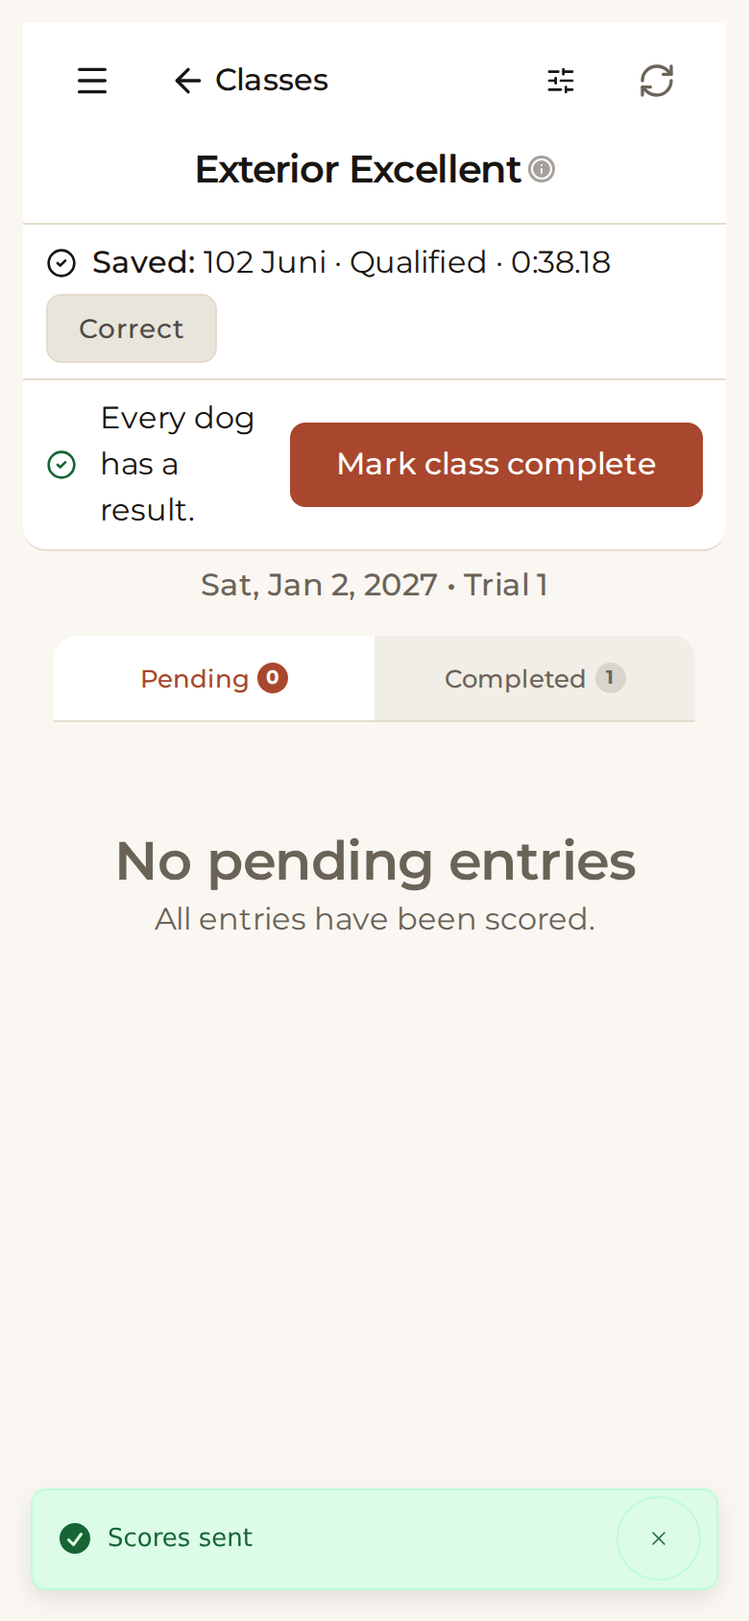
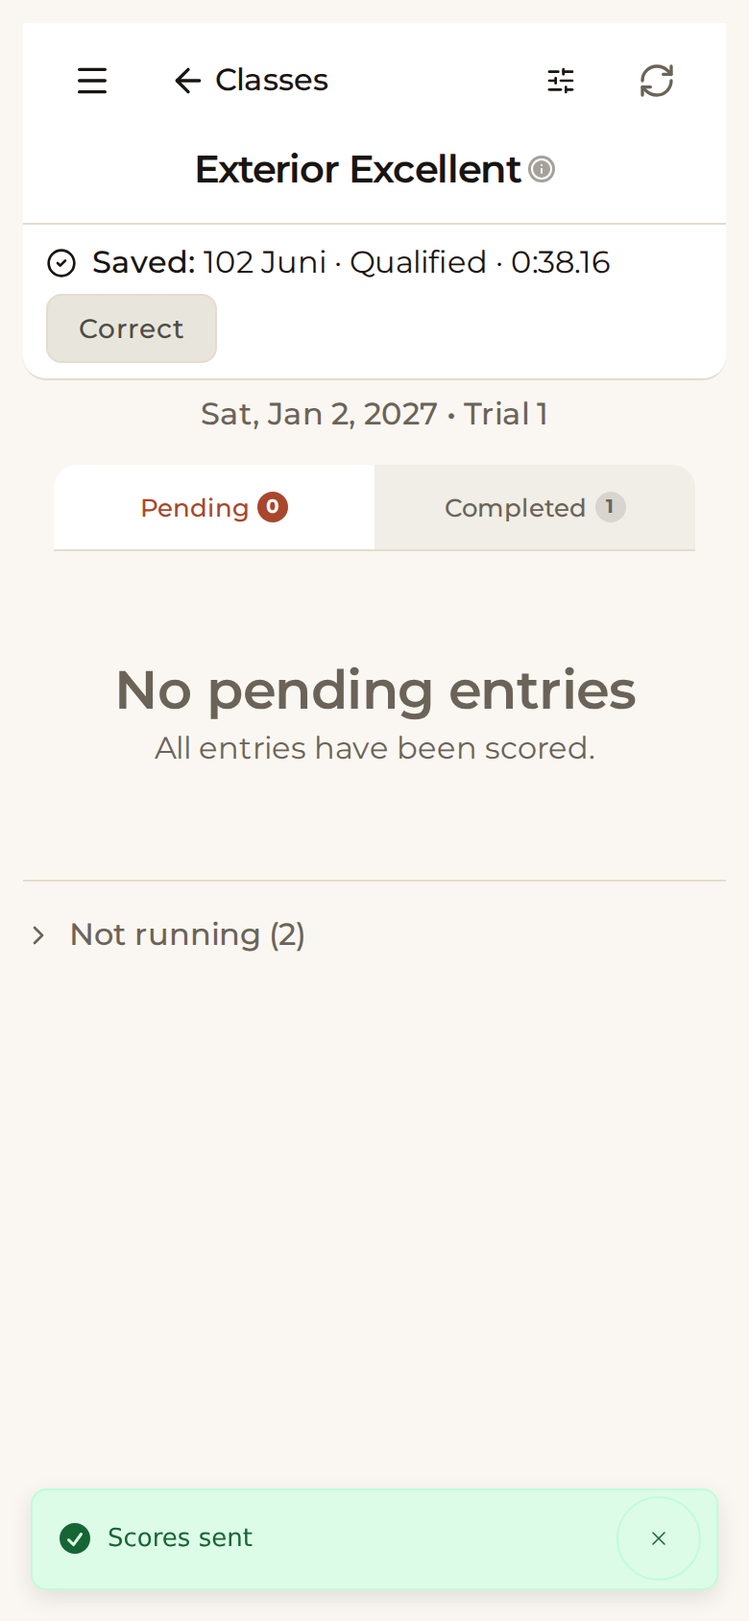
docs(landing): the capture section describes the confined e2e capture; images from the confined run (MYK9-2181)
- Images from capture run 44347351978 (head cfb977a52): the first taken with
  the outbound network closed and the score really sent. Regions are unchanged.
- Plan, evidence and prototype docs describe the capture as it now is.
- The resting-frame test pins the last line's ring to the Scores sent message.

diff --git a/apps/myk9show/src/components/landing/lifecycle/__tests__/ringScene.test.tsx b/apps/myk9show/src/components/landing/lifecycle/__tests__/ringScene.test.tsx
@@ -60,6 +60,10 @@ describe('the ring scene', () => {
       ['The score is read back before it saves', 'confirm'],
       ['The signal returns', 'sent'],
     ]);
+    // Two frames show `sent`; the one the last line rests on rings the Scores sent message.
+    expect(frames[lastFrameOfLine(frames, 4)]!.phone!.ring).toEqual(
+      regions.shots.sent.regions.toast
+    );
   });
 
   it('rings the whole class card on the first line', () => {

diff --git a/docs/plan-landing-animated-timeline.md b/docs/plan-landing-animated-timeline.md
@@ -132,11 +132,11 @@ Changed from the 2026-11-12 wording (the judge's flow changed on 2026-11-14, MYK
 Facts the copy must respect:
 
 - Scoring is not gated on the date. The exhibitor's "Show day is here" banner is, and by the server's clock, so it cannot be staged by changing a browser clock.
-- While the tablet is offline the exhibitor's phone does not change.
+- While the judge's device is offline the exhibitor's phone does not change.
 - There is no auto-advance after a score. The judge chooses a dog from the list.
-- The reconnect ("Scores sent") is captured without sending a score: the capture script answers the upload inside the browser and gives the confirming read the same fields, so the phone shows what it shows when the server has accepted a score. The request never leaves the machine.
+- The reconnect ("Scores sent") is captured without sending a score: the capture's database is the job's own, so the score is really sent when the signal returns and the phone shows what a judge sees.
 - **The scene is the judge's phone, captured 390 wide (owner, 2026-11-18; MYK9-2181).** Lines 2, 4 and 5 and the show-day step's own sentence were reworded for it (the owner has not yet read the new wording): line 4 now ends at the read-back and line 5 opens on the saved list, so each line's text is what its frames show; the step says judges score "on a phone or tablet"; on a phone the header shows an amber no-signal icon and a message says "You're offline. Changes are saved on this device…", where a wider screen prints "Offline · scores saved on this device" in the header; and line 5 says "the screen", not "the tablet".
-- **The scene is Juni (102) in Exterior Excellent**, not Cooper in Container Novice A. On the seed as an isolated stack holds it, Container Novice A is complete with its results released, and Exterior Excellent is the judge's unscored class with a single timer. Only the demo seed's own armbands (100 to 105) are in the captures: the load fixture's dogs (2001 to 2063) are left out of every list the phone receives, so the class reads 0 of 1 scored.
+- **The scene is Juni (102) in Exterior Excellent**, not Cooper in Container Novice A. On the seed as an isolated stack holds it, Container Novice A is complete with its results released, and Exterior Excellent is the judge's unscored class with a single timer. The capture's database is seeded without the load fixture, so the class holds the demo seed's one dog and reads 0 of 1 scored.
 - Per-judge access codes now scope each code to that judge's classes (MYK9-1950). Sign-in is not a line in this scene.
 
 ### The "Show day, at the desk" scene (re-verified in code 2026-11-15, not captured)
@@ -179,16 +179,14 @@ Facts the copy must respect:
 
 ## Capturing the screens
 
-- **A capture runs against an isolated Supabase stack only** (owner, 2026-11-18; MYK9-2181). There is no opt-in for a hosted project: a request to one is never sent and stops the run, so no account is signed in and no image is written after it. The ring captures of 2026-11-17 were taken against the production project before this rule existed (about a dozen judge sign-ins, no writes, and the fixture judge shown as scoring through show presence); that cannot happen from the committed scripts.
-- **Where it runs.** The isolated stack (`pnpm qa:isolated-e2e:prepare`) needs Docker, or the Supabase CLI's native runtime on a Mac. The owner's Windows PC has neither (the CLI answers "Native artifacts are unsupported on win32/x64"), so captures are taken by the **Landing capture** workflow (`.github/workflows/landing-capture.yml`): it builds the stack, serves the built app against it, runs the capture and uploads the images and regions as the `landing-capture-ring` artifact, laid out to unpack over a checkout. It runs on a pull request that changes the capture scripts, and on demand (`gh workflow run landing-capture.yml`). Commit the artifact's files; nothing is committed by the workflow.
-- **The scripts** are in `apps/myk9show/scripts/landing-capture/`: `guardRules.ts` (every safety rule, as pure functions), `guard.ts` (wires the rules to the browser), `lib.ts` (launch, sign-in, measuring), `selfcheck.ts` (proves the guard in a real browser, with a control) and one script per scene (`ring.ts`). On a machine that can run the stack: `pnpm --filter @myk9/show capture:landing:selfcheck`, then `capture:landing:ring` with `CAPTURE_BASE_URL` pointing at an app served against the stack. Each scene writes its images to `public/landing/scenes/<scene>/` and its measured regions to `src/components/landing/lifecycle/scenes/<scene>Regions.json`.
-- **The rules, each with known-answer tests** (`src/test/scripts/landingCaptureGuard.test.ts`, `landingCaptureGuardWiring.test.ts`):
-  - Only an app served from this machine is driven, and it is exempt from the guard by its exact origin, so a stack on another port of the same host is still guarded.
-  - Of the requests to the local stack only reads leave the browser. RPCs are POSTs and some write, so only RPCs with a read name pass; opening a ringside scoresheet online calls `ringside_update_entry` and moves the dog to "In ring", so a scoring walk is cut off from the backend before the scoresheet opens.
-  - Any other host is refused, except a GET for the web fonts. The browser itself is started so that it resolves no name but this machine and the font hosts.
-  - **No WebSocket is connected to any server**, realtime and hot reload included.
-  - A state the seed does not hold is staged by changing what the browser is shown (a patched response, or a staged answer to a refused write), never by writing it. Use a fresh browser context per state, because the app caches rows locally.
-  - Each scene lists the armbands it shows. Rows off the list are left out of every list the app receives, and an image is written only after every armband on screen is on the list.
+- **A capture is safe by where it runs, not by sorting its requests** (owner, 2026-11-18; MYK9-2181). A first version let the app talk to a backend through a guard that told reads from writes, one RPC from another and one armband from another; two review rounds kept finding gaps in it, so it was replaced. The ring captures of 2026-11-17 were taken against the production project by hand-run scripts (about a dozen judge sign-ins, no writes, and the fixture judge shown as scoring through show presence); the committed capture cannot do that.
+- **The database is the job's own.** The **Landing capture** workflow (`.github/workflows/landing-capture.yml`) builds a disposable Supabase stack, seeds it from the repository's demo seed only (`MYK9_E2E_LOAD_FIXTURE=false` leaves the 63-dog load fixture out), and destroys it with the job. Every row is a fixture, so nothing is filtered, and the walk scores for real: the reconnect really sends the score.
+- **Nothing the capture runs can leave the runner.** After install, build and the font download, the job closes the outbound network for the capture's processes (the browser, the preview server and the spec run in a group that may talk to this machine only). A control proves the probe connects before the rule and is refused under it, and the spec proves the refusal again before it signs in.
+- **The capture is one spec in the isolated e2e suite**: `apps/myk9show/src/test/e2e/capture/landingRingCapture.spec.ts`, run by `playwright.ci.config.ts` when `PLAYWRIGHT_LANDING_CAPTURE=true`. It uses the suite's own sign-in, isolated-target check and production-bundle check, and refuses to start unless the target is isolated and the network is closed. Beside it: `egressProbe.ts` (the network proof), `downloadFonts.ts` (the app's web fonts, fetched before the network is closed and served to the page from disk) and `helpers/landingCapture.ts` (tested in `src/test/e2e-helpers/landingCapture.test.ts`).
+- **No WebSocket is connected to any server.** Every socket the page opens is held in the browser; the spec's first test proves it, with a control.
+- **Where it runs.** In the workflow only: on a pull request that changes the capture, or on demand (`gh workflow run landing-capture.yml`). The owner's Windows PC cannot run the stack (no Docker, and the Supabase CLI answers "Native artifacts are unsupported on win32/x64"). The run uploads the images and regions as the `landing-capture-ring` artifact, laid out to unpack over a checkout. Commit the artifact's files; the workflow commits nothing.
+- **Staging.** "No signal" is staged for the backend only (the page keeps the code it has loaded): `navigator.onLine` follows a flag and backend requests are dropped while it is set. Nothing else is staged.
+- Each scene writes its images to `public/landing/scenes/<scene>/` and its measured regions to `src/components/landing/lifecycle/scenes/<scene>Regions.json`.
 - Captured on the canonical seed show (Heartland Scent Work Classic, `dededede-0000-0000-0000-000000000010`), signed in as a seeded account.
 - Desktop captures at 1440×900. Phone captures, the judge's screen in the ring scene included, at 390×844 at 2× density.
 
@@ -209,7 +207,7 @@ Each phase ends with its own checks passing. One pull request per phase.
 Reordered on 2026-11-17: the ring scene goes first, because its screens are settled and the Entries open screens are not.
 
 - Build `TimelineScene` and the frame data type, with both modes (autoplay and step-through) and no app dependencies. Done (#4008).
-- **Ring scene (built 2026-11-17, re-captured at phone width 2026-11-18, MYK9-2181).** The capture scripts are in the repo (`apps/myk9show/scripts/landing-capture/`, see "Capturing the screens"). The screen is the judge's phone, 390×844 at 2× density, so the words read at the 235px the page draws it on a phone; the label and alt text say phone. Line 1's ring is the whole class card. **The frame stays 3:4**, the shape it had as a tablet: a whole phone in the frame made the club page 15.15 phone screens long, over the limit of 15, so each frame is a window the phone's full width and 520 tall, placed on its ring by one rule (`windowOnRing` in `sceneFrames.ts`, tested) and never zoomed. One frame is about two things, the stopped time and the result, so its window is placed on both measured regions together. The club page stays 14.9 screens. The other way to fit a whole phone is to raise the limit, which is the owner's call. Under reduced motion each line rests on the frame its heading names: the read-back closes line 4 and the saved list opens line 5 (`ringScene.test.tsx`). "Show day, at the ring" plays on the show-day step: in the club story above the practice scoresheet, and in the exhibitor story on the meanwhile side, where the judge's still (`j-04.png`, deleted) was. Eight captures, nine frames. **The ring scene does not zoom:** every frame is the screen at its full width with a ring. The first capture was a tablet, 768 wide, which the page draws 235 wide on a 375px phone, so a camera close enough to read cropped whatever sat beside it, and four review rounds traded one for the other. The two limits the owner accepted on 2026-11-18 (words too small to read on a phone; line 4 resting on the saved list under reduced motion) are both closed by the phone-width re-capture.
+- **Ring scene (built 2026-11-17, re-captured at phone width 2026-11-18, MYK9-2181).** The capture is in the repo as an isolated e2e spec (`apps/myk9show/src/test/e2e/capture/`, see "Capturing the screens"). The screen is the judge's phone, 390×844 at 2× density, so the words read at the 235px the page draws it on a phone; the label and alt text say phone. Line 1's ring is the whole class card. **The frame stays 3:4**, the shape it had as a tablet: a whole phone in the frame made the club page 15.15 phone screens long, over the limit of 15, so each frame is a window the phone's full width and 520 tall, placed on its ring by one rule (`windowOnRing` in `sceneFrames.ts`, tested) and never zoomed. One frame is about two things, the stopped time and the result, so its window is placed on both measured regions together. The club page stays 14.9 screens. The other way to fit a whole phone is to raise the limit, which is the owner's call. Under reduced motion each line rests on the frame its heading names: the read-back closes line 4 and the saved list opens line 5 (`ringScene.test.tsx`). "Show day, at the ring" plays on the show-day step: in the club story above the practice scoresheet, and in the exhibitor story on the meanwhile side, where the judge's still (`j-04.png`, deleted) was. Eight captures, nine frames. **The ring scene does not zoom:** every frame is the screen at its full width with a ring. The first capture was a tablet, 768 wide, which the page draws 235 wide on a 375px phone, so a camera close enough to read cropped whatever sat beside it, and four review rounds traded one for the other. The two limits the owner accepted on 2026-11-18 (words too small to read on a phone; line 4 resting on the saved list under reduced motion) are both closed by the phone-width re-capture.
 - **Phone page length (owner, 2026-11-17):** the scene adds about one phone screen. At 390×844 the club page is 14.9 screens and the exhibitor page 14.0, so the limit in `landing-lifecycle.spec.ts` is raised from 14 to 15 and nothing is taken off the show-day step. Phase 2 brings it back to 14 when the two-column stills go. The club page has 0.1 of a screen to spare, so the next scene will not fit until then.
 - Capture the Entries open images and regions. Replace that step in both audience stories.
 - Delete `ScreenshotExplainer` and its test once nothing imports it.

diff --git a/docs/qa/landing-lifecycle-evidence.md b/docs/qa/landing-lifecycle-evidence.md
@@ -60,10 +60,10 @@ Facts the Entries copy must respect, re-checked: payment never accepts an entry 
 | Ring1. Ringside lists the judge's classes under "Your ring", each with how many dogs are scored                                                                         | KEEP, **conditional** | Heading `features/at-show/AtShowClassListSections.tsx:64`; each card's scored count `features/at-show/AtShowClassRow.tsx:220` (announced "n of m scored"). The section appears when the judge's assignments are known (`AtShowClassListSections.tsx:96`). The older "dogs left" count only shows on a live class (`AtShowClassRow.tsx:99,124`), so it is not claimed                                                                         |
 | Ring2. Offline, a message says changes are saved on this device (from tablet width up the header reads "Offline · scores saved on this device") and the run order stays | KEEP, **conditional** | `components/shows/ShowDetails/ShowSyncStatus.tsx:43` via `features/at-show/slots/atShowLayoutSlotComponents.tsx:108`. That exact wording holds while nothing is unsent: after one score is saved offline it reads "Offline · 1 score not sent yet" (`ShowSyncStatus.tsx:10,43`), so the frame must come before the first score. The run order is read from the device (INTENT.md § `/at-show`, full offline support)                         |
 | Ring3. "Start", then "Stop", then Qualified, NQ, Absent, Excused or DQ; a Qualified run shows Faults                                                                    | KEEP                  | `packages/scoring-ui/src/components/scoresheets/AKC/AKCScentWorkLiveScoresheet.tsx:223,231` (Stop; Start, which reads "Resume" after a stop), words from `packages/scoring-ui/src/utils/resultLabel.ts:7`, chips `packages/scoring-ui/src/components/ResultChoiceChips.tsx`, Faults stepper only for Qualified (`ResultChoiceChips.tsx:123`). Start also moves the dog to "In ring" for others (`hooks/useScoresheetRingMove.ts`, MYK9-1779) |
-| Ring4. "Save" opens "Score Confirmation"; "Confirm & Submit" returns to the list with a "Saved:" line "on this device, not sent yet"                                    | KEEP                  | Save `packages/scoring-ui/src/components/ScoresheetActionBar.tsx:46`; dialog `ScoreConfirmationDialog.tsx:116,175` (a deliberate read-back, INTENT.md § Judge); the return to the list and the line `features/at-show/SavedScoreLine.tsx:4,55,71` (MYK9-2012). "Saved on this device. It will send when you're back online." is gone from the code                                                                                           |
-| Ring5. When the signal returns the score sends itself and "Scores sent" appears                                                                                         | KEEP                  | `features/at-show/useScoreSaveState.ts:172` (the toast fires only for a score that was queued and later acknowledged); the "not sent yet" note clears on acknowledgement (`SavedScoreLine.tsx:51`). The judge's device only. The exhibitor's phone is not claimed here: a result reaches an exhibitor only after release (see Results Res5)                                                                                                  |
+| Ring4. "Save" opens "Score Confirmation", which reads back the dog, the result and the time before "Confirm & Submit"                                                   | KEEP                  | Save `packages/scoring-ui/src/components/ScoresheetActionBar.tsx:46`; dialog `ScoreConfirmationDialog.tsx:116,175` (a deliberate read-back, INTENT.md § Judge); the return to the list and the line `features/at-show/SavedScoreLine.tsx:4,55,71` (MYK9-2012). "Saved on this device. It will send when you're back online." is gone from the code                                                                                           |
+| Ring5. The list shows a "Saved:" line "on this device, not sent yet"; when the signal returns the score sends itself and "Scores sent" appears                          | KEEP                  | `features/at-show/useScoreSaveState.ts:172` (the toast fires only for a score that was queued and later acknowledged); the "not sent yet" note clears on acknowledgement (`SavedScoreLine.tsx:51`). The judge's device only. The exhibitor's phone is not claimed here: a result reaches an exhibitor only after release (see Results Res5)                                                                                                  |
 
-Facts re-checked: scoring is not gated on the date; the exhibitor "Show day is here" banner is (`features/show-today/ShowTodayBanner.tsx:62`). The judge returns to the entry list after Save and the app never suggests the next dog (`SavedScoreLine.tsx:14`, MYK9-2012; the "Time" and "Resume" card pills are gone, MYK9-1991). The reconnect is captured (2026-11-17) without sending a score: the capture script (MYK9-2181) answers the upload inside the browser and gives the confirming read the same fields, and the app then shows "Scores sent" and drops "not sent yet" from the Saved line by itself (`useScoreSaveState.ts`, a matching readback). Re-captured 2026-11-18 at phone width against an isolated stack (MYK9-2181, Landing capture workflow): the scene is now Juni (102) in Exterior Excellent, because the seed holds Container Novice A complete with results released. The captures hold the demo seed's own armbands only, so the class card reads 0 of 1 scored. At phone width the header shows a no-signal icon and the offline frame is the message "You're offline. Changes are saved on this device and will be sent when you are back online." (`lib/offlineCopy.ts:20`); the header sentence in Ring2 is what screens from `sm` up print (`features/at-show/slots/atShowSyncChrome.tsx:31-41`).
+Facts re-checked: scoring is not gated on the date; the exhibitor "Show day is here" banner is (`features/show-today/ShowTodayBanner.tsx:62`). The judge returns to the entry list after Save and the app never suggests the next dog (`SavedScoreLine.tsx:14`, MYK9-2012; the "Time" and "Resume" card pills are gone, MYK9-1991). The reconnect was first captured (2026-11-17) without sending a score. Since the 2026-11-18 re-capture it is real: the capture's database is the job's own, the score is sent when the signal returns, and the app shows "Scores sent" and drops "not sent yet" from the Saved line by itself (`useScoreSaveState.ts`). Re-captured 2026-11-18 at phone width against an isolated stack (MYK9-2181, Landing capture workflow): the scene is now Juni (102) in Exterior Excellent, because the seed holds Container Novice A complete with results released. The capture's database is seeded with the demo seed only, so the class card reads 0 of 1 scored, and the score is really sent on reconnect. At phone width the header shows a no-signal icon and the offline frame is the message "You're offline. Changes are saved on this device and will be sent when you are back online." (`lib/offlineCopy.ts:20`); the header sentence in Ring2 is what screens from `sm` up print (`features/at-show/slots/atShowSyncChrome.tsx:31-41`).
 
 ### Show day, at the desk
 
@@ -154,7 +154,7 @@ Captured 2026-10-13 from the dev server on this branch (`main` @ `864a03e76`) wi
 | Exhibitor 2 main (explainer), club 2 meanwhile | E-02            | desktop | Public show page: title, when/where/trials, Review details, closing countdown                                                                                                                       | **Changed since the canvas.** "Enter this show" moved to the sticky bar at the top; re-measure the three explainer boxes in Task 2                                                         |
 | Exhibitor 3 main, club 3 meanwhile             | My Entries card | phone   | Armband **100 Willow, Checked in**, Interior Advanced, Mon Nov 9, Trial 1                                                                                                                           | Replaces E-12. The class page's "Your dogs in this class" callout only shows on show day                                                                                                   |
 | Exhibitor 4 main (explainer), club 4 meanwhile | E-13            | phone   | My Entries with the Show Today banner                                                                                                                                                               | **Guide copy kept** (from the main checkout). The banner only renders on a show's own day, and seeding a show for today would write to shared data. The canvas explainer boxes still apply |
-| Exhibitor 4 meanwhile, club 4 main             | Ring scene      | phone   | Eight captures of the judge on Exterior Excellent: the ring classes, offline, the scoresheet, the timer at 38 seconds, Qualified, the read-back for **102 Juni**, Saved (not sent yet), Scores sent | Replaces J-04 (deleted, 2026-11-17). Plays as the "Show day, at the ring" scene; the reconnect is staged in the browser, see the show-day row above                                        |
+| Exhibitor 4 meanwhile, club 4 main             | Ring scene      | phone   | Eight captures of the judge on Exterior Excellent: the ring classes, offline, the scoresheet, the timer at 38 seconds, Qualified, the read-back for **102 Juni**, Saved (not sent yet), Scores sent | Replaces J-04 (deleted, 2026-11-17). Plays as the "Show day, at the ring" scene; the reconnect is real, against the capture job's own database                                             |
 | Exhibitor 5 main, club 5 meanwhile             | E-17            | phone   | Container Novice A: Willow **Qualified, 0:38.50, 0 faults, 1st**                                                                                                                                    |                                                                                                                                                                                            |
 | Exhibitor 6 main, club 6 meanwhile             | Dog record      | phone   | Willow → Career → **Past Results**: Q, Q #1, Q across two shows                                                                                                                                     | Replaces E-16. It shows "every Q on your dog's record" literally                                                                                                                           |
 

diff --git a/docs/design/landing-timeline-prototype/README.md b/docs/design/landing-timeline-prototype/README.md
@@ -4,11 +4,11 @@ Reference material for [`docs/plan-landing-animated-timeline.md`](../../plan-lan
 
 The approved prototype page for the "Entries open" step is linked from the Linear issue (a private artifact).
 
-The capture scripts are committed in `apps/myk9show/scripts/landing-capture/` (MYK9-2181): the safety rules in `guardRules.ts`, their wiring in `guard.ts`, `lib.ts`, a self-check and one script per scene, the ring scene first. They run against an isolated Supabase stack only, through the Landing capture workflow; see "Capturing the screens" in the plan. They replace the prototype's `capture.cjs` and `lib.cjs`, which stayed on the machine that built the prototype and are not committed: they hard-code a Windows path, use the installed Edge, and their write guard let every RPC through. `entries-open-prototype.html` is also uncommitted; the approved page is the artifact linked from the issue.
+The capture is committed as an isolated e2e spec, `apps/myk9show/src/test/e2e/capture/landingRingCapture.spec.ts` (MYK9-2181), the ring scene first. It runs only in the Landing capture workflow, against the job's own Supabase stack and with its outbound network closed; see "Capturing the screens" in the plan. It replaces the prototype's `capture.cjs` and `lib.cjs`, which stayed on the machine that built the prototype and are not committed: they hard-code a Windows path, use the installed Edge, and their write guard let every RPC through. `entries-open-prototype.html` is also uncommitted; the approved page is the artifact linked from the issue.
 
 How the prototype's capture worked, kept for the Entries open scene, which is not captured by a committed script yet:
 
-- Sign in on `localhost` as the seeded secretary and exhibitor and open the canonical seed show. A rebuilt script does this through `lib.ts` and the guard, against an isolated stack, never as the prototype did.
+- Sign in on `localhost` as the seeded secretary and exhibitor and open the canonical seed show. A rebuilt capture is a spec beside the ring scene's, run by the Landing capture workflow, never against a shared backend as the prototype was.
 - Block every write to the data API, so a capture run cannot change shared data.
 - Stage one seeded entry in three states (not there yet, needs review, accepted) by patching the responses the browser receives. The rows come from `view_authenticated_entry_results_replication` on the secretary's list and `view_authenticated_entry_results` on My Entries.
 - Use a fresh browser context per state, because the app caches rows locally.
